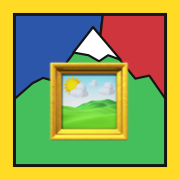
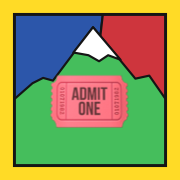
Ticket emoji, README screenshots, and the photo panel shown whole
- Blotted's emoji is now 🎟: title, top bar, manifest and app icons.
- The README opens with a desktop and a phone screenshot, made with
  drawn sample images rather than real photos.
- The chosen photo's panel no longer gets squeezed in the side column:
  its Replace, Reset, Move and Remove buttons show, and the column
  scrolls instead.

Changed region(s): [[0.25, 0.3333, 0.7222, 0.8056]]

diff --git a/index.html b/index.html
@@ -5,7 +5,7 @@
     <meta name="viewport" content="width=device-width, initial-scale=1.0, viewport-fit=cover" />
     <meta name="description" content="Lay photos on a dotted cut grid and export a print-ready A4 page." />
     <meta name="theme-color" content="#ffd51f" />
-    <title>Blotted 🖼</title>
+    <title>Blotted 🎟</title>
     <link rel="icon" type="image/png" href="/favicon.png" />
     <link rel="apple-touch-icon" href="/apple-touch-icon.png" />
     <link rel="manifest" href="/manifest.json" />

diff --git a/src/App.tsx b/src/App.tsx
@@ -313,7 +313,7 @@ export function App() {
       <header className="topbar">
         <div className="brand">
           <span className="brand-mark" aria-hidden="true">
-            🖼
+            🎟
           </span>
           <h1>
             Blotted <small>since 1943</small>

diff --git a/src/styles.css b/src/styles.css
@@ -660,6 +660,7 @@ label.free-slot {
 
 .panel {
   display: flex;
+  flex: none;
   flex-direction: column;
   gap: 14px;
   padding: 0 18px 18px;

diff --git a/README.md b/README.md
@@ -1,7 +1,16 @@
-# Blotted 🖼
+# Blotted 🎟
 
 Lay photos on a dotted cut grid and export a print-ready page, to cut into small squares (blotter style).
 https://blotted.vumble.dev
+
+<p align="center">
+  <img src="docs/screenshots/desktop.jpg" alt="Blotted on a desktop: 13 sample photos on an A4 sheet under the dotted cut grid, one made Big, with the photo and sheet panels on the right" width="100%">
+</p>
+<p align="center">
+  <img src="docs/screenshots/phone.jpg" alt="Blotted on a phone: the same sheet in one column" width="280">
+</p>
+
+The screenshots use drawn sample images, not real photos.
 
 - **Add photos**: the button, drag and drop, or paste. On iOS the button opens the photo library. A loader counts
   the photos in. Photos are kept at full size for the exports; the screen shows light copies, so any phone copes.
@@ -15,7 +24,7 @@ https://blotted.vumble.dev
   are added, in whole squares; or set a fixed size.
 - **Grid**: black dots on every square of the page, empty places included; photo edges are always cut lines.
 - **Export**: a PDF at the paper's exact size (vector dots, photos at 300 dpi), or a JPEG of one page. Print at 100%.
-- Photos and layout stay on the device (IndexedDB); nothing is uploaded. Works offline once opened.
+- Photos and layout stay on the device (IndexedDB); your own photos are never uploaded. Works offline once opened.
 
 ## Develop
 
